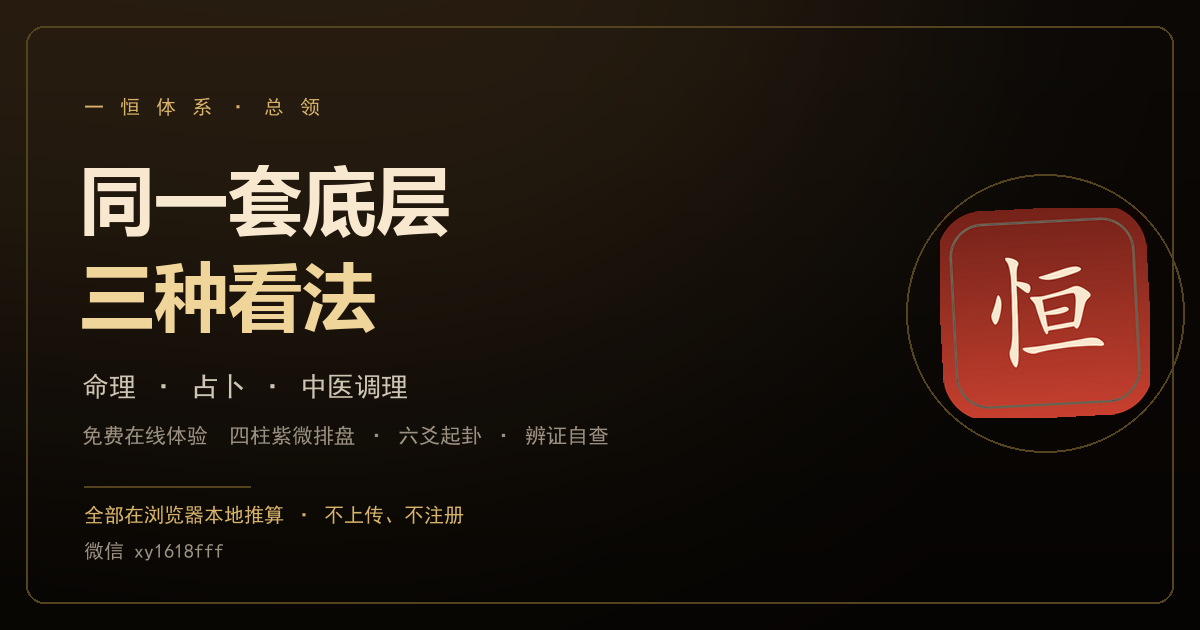
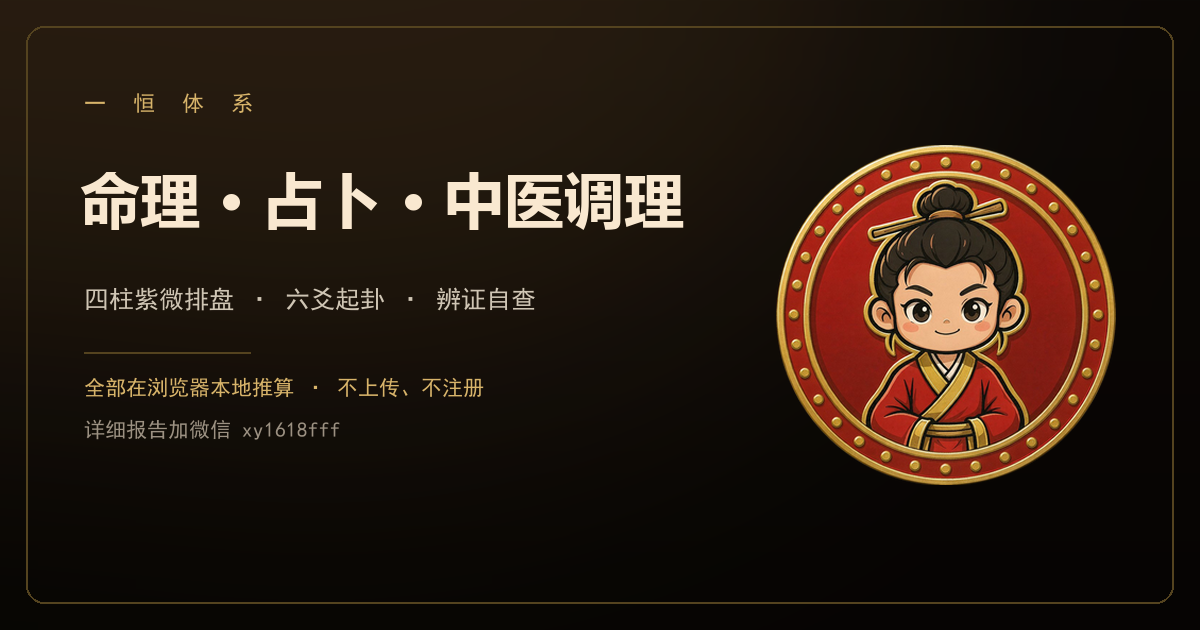
首页换成官方头像+三入口，删长介绍/FAQ/首页微信块；微信引导只留板块报告底部；修中医[object Object]

diff --git a/theme.css b/theme.css
@@ -45,12 +45,9 @@ h1,h2,h3,h4{margin:0;font-weight:700}
   backdrop-filter:blur(10px);
 }
 .brand{display:flex;align-items:center;gap:9px;color:var(--text);font-weight:600;font-size:14px;letter-spacing:2px}
-.seal{
-  width:26px;height:26px;flex:0 0 26px;border-radius:6px;
-  background:linear-gradient(160deg,#c8402f,#8e2a1f);color:#f8e6cd;
-  font-size:15px;line-height:26px;text-align:center;font-weight:700;letter-spacing:0;
-  box-shadow:inset 0 0 0 1px rgba(255,225,180,.35),0 2px 8px -4px #000;
-  transform:rotate(-3deg);
+.brand .av{
+  width:28px;height:28px;flex:0 0 28px;display:block;border-radius:50%;object-fit:cover;
+  box-shadow:0 0 0 1px rgba(216,180,106,.34),0 4px 10px -5px #000;
 }
 .navlinks{display:flex;gap:14px;font-size:12.5px;letter-spacing:.5px}
 .navlinks a{color:var(--dim)}
@@ -58,64 +55,46 @@ h1,h2,h3,h4{margin:0;font-weight:700}
 .navlinks a.on{position:relative}
 .navlinks a.on::after{content:"";position:absolute;left:0;right:0;bottom:-5px;height:1px;background:linear-gradient(90deg,transparent,var(--gold),transparent)}
 
-/* ---------- 首页 Hero ---------- */
-.hero{text-align:center;padding:26px 0 6px}
-.sealbig{
-  width:70px;height:70px;margin:0 auto 16px;border-radius:12px;
-  background:linear-gradient(160deg,#c8402f,#8a281d);
-  box-shadow:inset 0 0 0 1.5px rgba(255,226,180,.4),inset 0 0 22px rgba(0,0,0,.35),0 14px 30px -18px #000;
-  display:flex;align-items:center;justify-content:center;transform:rotate(-3deg);
+/* ---------- 首页 Hero：头像 + 字标（摆正，不做任何倾斜） ---------- */
+.home{display:flex;flex-direction:column;justify-content:center;min-height:calc(100vh - 120px)}
+@supports (min-height:100dvh){.home{min-height:calc(100dvh - 120px)}}
+.hero{text-align:center;padding:22px 0 0}
+.hero .avatar{
+  display:block;width:118px;height:118px;margin:0 auto;border-radius:50%;
+  box-shadow:0 0 0 1px rgba(216,180,106,.3),0 20px 44px -22px #000,0 0 64px -12px rgba(192,57,43,.4);
 }
-.sealbig span{font-size:38px;line-height:1;color:#f9e8d0;font-weight:700;font-family:"STKaiti","KaiTi",serif}
+.hero .name{
+  margin:18px 0 0;font-size:14.5px;font-weight:600;line-height:1.2;
+  letter-spacing:.46em;text-indent:.46em;color:var(--gold2);
+}
 .kicker{font-size:11.5px;letter-spacing:5px;color:var(--gold);text-transform:uppercase}
-.hero h1{font-size:clamp(27px,7.4vw,40px);letter-spacing:.06em;line-height:1.32;margin:12px 0 0}
-.hero h1 em{font-style:normal;color:var(--gold2)}
-.lead{color:#cfc5b4;font-size:14.5px;margin:14px auto 0;max-width:560px;line-height:1.9}
-.lead2{color:var(--dim);font-size:13px;margin:8px auto 0;max-width:560px}
-.lead2 b{color:var(--gold);font-weight:500}
 
 /* ---------- 板块卡 ---------- */
-.boards{display:grid;grid-template-columns:1fr;gap:14px;margin:26px 0 8px}
-@media (min-width:720px){.boards{grid-template-columns:repeat(3,1fr);gap:12px}}
+.boards{display:grid;grid-template-columns:1fr;gap:12px;margin:30px 0 0}
+@media (min-width:720px){.boards{grid-template-columns:repeat(3,1fr);gap:14px}}
 .bcard{
-  position:relative;display:flex;flex-direction:column;gap:10px;
-  padding:20px 18px 18px;border-radius:20px;border:1px solid var(--line);
+  position:relative;display:flex;flex-direction:column;align-items:center;text-align:center;gap:8px;
+  padding:26px 16px 22px;border-radius:18px;border:1px solid var(--line);
   background:linear-gradient(168deg,#1b150e 0%,#13100b 62%,#100e0a 100%);
-  box-shadow:var(--sh);overflow:hidden;transition:transform .18s,border-color .18s;
+  box-shadow:var(--sh);overflow:hidden;
+  transition:transform .18s,border-color .18s,box-shadow .18s;
 }
 .bcard::before{
-  content:"";position:absolute;inset:0;border-radius:20px;pointer-events:none;
-  background:radial-gradient(240px 130px at 82% -10%,rgba(216,180,106,.16),transparent 70%);
+  content:"";position:absolute;inset:0;border-radius:18px;pointer-events:none;
+  background:radial-gradient(220px 120px at 82% -10%,rgba(216,180,106,.16),transparent 70%);
 }
-.bcard:hover{transform:translateY(-2px);border-color:var(--line2)}
+.bcard:hover{transform:translateY(-3px);border-color:var(--line2);box-shadow:0 16px 36px -20px #000}
 .bcard:active{transform:scale(.995)}
-.bcard .ic{width:44px;height:44px;color:var(--gold);opacity:.95}
-.bcard h3{font-size:18.5px;letter-spacing:.04em;color:var(--text)}
-.bcard h3 small{display:block;font-size:11.5px;letter-spacing:2.5px;color:var(--dim);font-weight:400;margin-top:4px}
-.bcard p{margin:0;color:var(--dim);font-size:13.2px;line-height:1.8;flex:1}
-.bcard .meta{font-size:11.5px;color:var(--dim2);letter-spacing:.4px}
+.bcard .ic{width:36px;height:36px;color:var(--gold);opacity:.92;margin-bottom:2px}
+.bcard h3{font-size:18.5px;letter-spacing:.14em;text-indent:.14em;color:var(--text)}
+.bcard p{margin:0;color:var(--dim);font-size:12.8px;line-height:1.7;letter-spacing:.04em}
 .bcard .go{
-  display:inline-flex;align-items:center;gap:6px;align-self:flex-start;
-  font-size:13.5px;font-weight:600;color:var(--gold2);
-  padding:7px 0 2px;border-top:1px solid var(--line);width:100%;margin-top:4px;
+  display:inline-flex;align-items:center;gap:6px;margin-top:8px;
+  font-size:11.5px;letter-spacing:.2em;text-indent:.2em;color:var(--gold);opacity:.78;
 }
+.bcard:hover .go{opacity:1}
 .bcard .go .arw{transition:transform .18s}
-.bcard:hover .go .arw{transform:translateX(4px)}
-
-/* ---------- 分节 ---------- */
-.sect{margin:38px 0 0;padding-top:26px;border-top:1px solid var(--line)}
-.sect-h{display:flex;align-items:baseline;gap:10px;margin-bottom:6px}
-.sect-h .num{font-size:12px;color:var(--red);letter-spacing:2px;font-weight:600}
-.sect-h h2{font-size:19px;letter-spacing:.05em}
-.sect-h h2 small{font-size:12px;color:var(--dim);font-weight:400;letter-spacing:1px;margin-left:8px}
-.sect-p{color:var(--dim);font-size:13.2px;margin:6px 0 16px;line-height:1.85;max-width:640px}
-
-.sysgrid{display:grid;grid-template-columns:1fr;gap:10px}
-@media (min-width:640px){.sysgrid{grid-template-columns:repeat(3,1fr)}}
-.sys{padding:14px 15px;border-radius:14px;border:1px solid var(--line);background:rgba(18,16,12,.68)}
-.sys b{display:block;color:var(--gold2);font-size:14.5px;margin-bottom:4px;letter-spacing:.04em}
-.sys span{display:block;color:var(--dim);font-size:12.8px;line-height:1.82}
-.sys .k{font-size:11px;color:var(--red2);letter-spacing:2px;display:block;margin-bottom:6px}
+.bcard:hover .go .arw{transform:translateX(3px)}
 
 /* ---------- 微信门槛（共用） ---------- */
 .lock{
@@ -216,20 +195,15 @@ input:focus,select:focus,textarea:focus{border-color:var(--line2)}
 @media (min-width:1024px){
   .wrap{width:980px;max-width:calc(100% - 48px);padding:0 24px}
   .topnav{padding:14px 24px}
-  .hero{padding:40px 0 4px}
-  .hero h1{font-size:39px}
-  .lead{font-size:15.5px;max-width:640px}
-  .lead2{font-size:13.5px;max-width:640px}
-  .boards{margin-top:36px;gap:16px}
-  .bcard{padding:24px 22px 20px}
-  .bcard h3{font-size:19.5px}
-  .bcard p{font-size:13.6px}
-  .sect{margin-top:54px;padding-top:34px}
-  .sect-h h2{font-size:21px}
-  .sect-p{font-size:13.6px;max-width:720px}
-  .sys{padding:18px 17px}
+  .hero{padding:34px 0 0}
+  .hero .avatar{width:168px;height:168px}
+  .hero .name{font-size:16px;margin-top:24px}
+  .boards{margin-top:46px;gap:16px}
+  .bcard{padding:30px 22px 26px}
+  .bcard h3{font-size:20px}
+  .bcard p{font-size:13.2px}
   .lock{padding:24px 22px}
-  .foot{margin-top:52px}
+  .foot{margin-top:56px}
 }
 
 /* ---------- 微信块：宽屏左右两列，高度砍一半 ---------- */
@@ -242,20 +216,6 @@ input:focus,select:focus,textarea:focus{border-color:var(--line2)}
 @media (max-width:719px){
   .lk-wx{display:flex;flex-direction:column;align-items:center}
 }
-
-/* ---------- 信任标签 ---------- */
-.trust{display:flex;flex-wrap:wrap;gap:8px;justify-content:center;margin:14px auto 0}
-.trust span{font-size:11.5px;color:var(--gold);border:1px solid var(--line2);border-radius:999px;padding:3px 10px;background:rgba(30,23,16,.7)}
-
-/* ---------- 常见问题 ---------- */
-.faq{margin-top:6px;border-top:1px solid var(--line)}
-.faq details{border-bottom:1px solid var(--line);padding:13px 2px}
-.faq summary{cursor:pointer;font-size:14px;color:var(--text);list-style:none;display:flex;align-items:center;justify-content:space-between;gap:12px;letter-spacing:.02em}
-.faq summary::-webkit-details-marker{display:none}
-.faq summary::after{content:"+";color:var(--gold);font-size:16px;line-height:1}
-.faq details[open] summary::after{content:"−"}
-.faq details[open] summary{color:var(--gold2)}
-.faq details p{margin:9px 0 0;color:var(--dim);font-size:13px;line-height:1.9;max-width:720px}
 
 /* ---------- 无障碍 ---------- */
 :where(a,button,input,select,textarea,[tabindex]):focus-visible{outline:2px solid var(--gold);outline-offset:2px;border-radius:8px}

diff --git a/app.js b/app.js
@@ -141,25 +141,11 @@
       '<line x1="16.7" y1="8" x2="16.7" y2="36"/><line x1="27.3" y1="8" x2="27.3" y2="36"/></svg>'
   };
 
+  /* 首页只有三个入口，卡片不放长介绍——点进去看盘面，详细报告在板块底部引导微信 */
   var CARDS = [
-    {
-      id: 'mingli', kicker: '结构 · 四柱与紫微',
-      title: '命理', sub: '你手里有什么牌',
-      p: '出生时间定四柱：日主、十神、六亲、财官，再加紫微十二宫与十二段大限，最后给一句简要结论。',
-      meta: '约 3 秒出盘 · 免费', cta: '进入排盘'
-    },
-    {
-      id: 'zhanbu', kicker: '当下 · 象数六爻',
-      title: '占卜', sub: '这一把该怎么出',
-      p: '心里默问一件事，三枚铜钱摇六次。盘面上是六亲、六神、世应、动变、伏神与旬空。',
-      meta: '两次点击 · 免费', cta: '起一卦'
-    },
-    {
-      id: 'zhongyi', kicker: '底子 · 中医调理',
-      title: '中医调理', sub: '身体接不接得住',
-      p: '勾选当下的身体感受：寒热、汗、二便、睡眠、舌象。看证候偏向，给调理思路。',
-      meta: '约 2 分钟 · 免费', cta: '开始自查'
-    }
+    { id: 'mingli', title: '命理', sub: '你手里有什么牌' },
+    { id: 'zhanbu', title: '占卜', sub: '这一把怎么出' },
+    { id: 'zhongyi', title: '中医调理', sub: '身体接不接得住' }
   ];
 
   /* ---------------- 首页 ---------------- */
@@ -167,65 +153,23 @@
     var cards = CARDS.map(function (c) {
       return '<a class="bcard" href="#/' + c.id + '">' +
         ICONS[c.id] +
-        '<h3>' + esc(c.title) + '<small>' + esc(c.kicker) + '</small></h3>' +
-        '<p>' + esc(c.p) + '</p>' +
-        '<div class="meta">' + esc(c.meta) + '</div>' +
-        '<div class="go">' + esc(c.cta) + '<span class="arw">→</span></div>' +
+        '<h3>' + esc(c.title) + '</h3>' +
+        '<p>' + esc(c.sub) + '</p>' +
+        '<span class="go">进入<span class="arw">→</span></span>' +
         '</a>';
     }).join('');
 
     return '' +
       '<div class="hero">' +
-        '<div class="sealbig" aria-hidden="true"><span>恒</span></div>' +
-        '<div class="kicker">一 恒 体 系 · 总 领</div>' +
-        '<h1>同一套底层<br><em>三种看法</em></h1>' +
-        '<p class="lead">命理看你手里有什么牌，占卜看这一把该怎么出，中医看你此刻的身体接不接得住。</p>' +
-        '<p class="lead2">三个入口，都从一次输入开始：出生时间、一件事、一组症状。<b>全部在浏览器本地推算，不上传。</b></p>' +
-        '<div class="trust"><span>本地推算</span><span>不上传</span><span>不用注册</span><span>免费体验</span></div>' +
+        '<img class="avatar" src="avatar-320.webp" alt="一恒体系" width="132" height="132" decoding="async" fetchpriority="high">' +
+        '<h1 class="name">一恒体系</h1>' +
       '</div>' +
 
       '<div class="boards">' + cards + '</div>' +
 
-      '<section class="sect">' +
-        '<div class="sect-h"><span class="num">01</span><h2>为什么是这三样<small>一条线，不是三个摊子</small></h2></div>' +
-        '<p class="sect-p">三者共用一套阴阳五行的语言，所以能对着看：命理说方向，占卜说时机，中医说到底子。</p>' +
-        '<div class="sysgrid">' +
-          '<div class="sys"><span class="k">结 构</span><b>命理 · 看牌面</b><span>日主是什么、六亲怎么排、财官有没有力、大运哪十年顺。看的是这一辈子大致拿了什么牌。</span></div>' +
-          '<div class="sys"><span class="k">当 下</span><b>占卜 · 看出牌</b><span>这一件事此刻的势：世应谁强、用神旺不旺、动爻往哪走、什么时候应。看的是这一把怎么出。</span></div>' +
-          '<div class="sys"><span class="k">底 子</span><b>中医 · 看身体</b><span>寒热虚实、脏腑气血、睡眠二便。牌再好、势再顺，底子接不住也白搭。看的是这个人现在的状态。</span></div>' +
-        '</div>' +
-      '</section>' +
-
-      '<section class="sect">' +
-        '<div class="sect-h"><span class="num">02</span><h2>先看盘面<small>完整报告加微信</small></h2></div>' +
-        '<p class="sect-p">免费体验出盘，盘面与一句简要结论直接看，不用注册、不留信息。需要结合你本人逐项推演的部分——四柱结构、断卦与时机、方药与剂量——不在页面上生成，加微信 ' + esc(WX.id) + ' 一对一给。</p>' +
-        '<div class="lock" style="margin-top:4px">' +
-          '<div class="lk-t">加微信 ' + esc(WX.id) + ' · 说清你要问哪个板块</div>' +
-          '<p class="lk-p">命理发出生时间，占卜发卦象或直接说事，中医说症状。盘面与简要结论页面上就有，不用等。</p>' +
-          '<div style="margin:10px 0 0">' +
-            '<span class="pill">命理 → 回复「报告」</span>' +
-            '<span class="pill">占卜 → 回复「占卦」</span>' +
-            '<span class="pill">中医 → 回复「调理」</span>' +
-          '</div>' +
-          wxBlock('报告') +
-        '</div>' +
-      '</section>' +
-
-      '<section class="sect">' +
-        '<div class="sect-h"><span class="num">03</span><h2>常见问题<small>先问清楚，再决定</small></h2></div>' +
-        '<div class="faq">' +
-          '<details><summary>盘面和判断准不准？</summary><p>排盘按固定历法与规则推算，同一时间输入永远出同一张盘；判断给的是倾向和概率，不是命令。它帮你看清结构，不替你做决定。</p></details>' +
-          '<details><summary>要收费吗？</summary><p>体验免费，出盘、起卦、自查都不收费，盘面与简要结论直接看。完整报告加微信 ' + esc(WX.id) + ' 单独说，按你的事一项一项讲清楚。</p></details>' +
-          '<details><summary>我的出生时间、症状会被收集吗？</summary><p>不会。所有推算在你自己的浏览器里完成，页面不往服务器发任何输入。只有你主动发到微信，我才看得到。</p></details>' +
-          '<details><summary>为什么这三样要一起看？</summary><p>命理看你这辈子大致拿了什么牌，占卜看这一把该怎么出，中医看你现在的身体接不接得住。三者共用一套阴阳五行的语言，能对着看。</p></details>' +
-          '<details><summary>中医内容能替代看医生吗？</summary><p>不能。本站只做辨证自查和调理思路，急症、持续加重、正在服药的，先去医院面诊。</p></details>' +
-        '</div>' +
-      '</section>' +
-
       '<footer class="foot">' +
         '一恒体系 · 命理 / 占卜 / 中医调理 © 2026<br>' +
-        '所有排盘与判断均在浏览器本地完成，不收集、不上传你的输入。' +
-        '<br>命理与占卜为传统文化体验，请勿作为重大决策的唯一依据；中医内容仅供健康参考，不替代面诊与治疗。' +
+        '所有推算都在你的浏览器里完成，不收集、不上传 · 命理占卜为传统文化体验，中医内容仅供健康参考，不替代面诊。' +
       '</footer>';
   }
 
@@ -358,7 +302,7 @@
     var md = document.querySelector('meta[name="description"]');
     if (md) md.setAttribute('content', id ? META[id] : HOME_DESC);
     if (!id) {
-      $view.innerHTML = '<div class="page">' + homeHTML() + '</div>';
+      $view.innerHTML = '<div class="page home">' + homeHTML() + '</div>';
       idlePrefetch();
       return;
     }

diff --git a/zhongyi.js b/zhongyi.js
@@ -14,7 +14,10 @@
   var ORDER = {};
   SYMPTOMS.forEach(function (s, i) { BY_ID[s.id] = s; ORDER[s.id] = i; });
 
-  var WX_ID = (root.YH && (root.YH.wx || root.YH.WX)) || 'xy1618fff';
+  /* 注意：app.js 里 YH.WX 是对象（{id,qr,keywords}），必须取 .id，
+     否则会渲染成「加微信 [object Object]」（2026-11-01 修）。 */
+  var _yh = root.YH || {};
+  var WX_ID = (typeof _yh.wx === 'string' && _yh.wx) || (_yh.WX && _yh.WX.id) || 'xy1618fff';
   var REP_FOOT = '本页依据症状倾向生成，仅供健康参考，不替代面诊与诊断；具体方药与剂量须由执业医师面诊后决定。';
 
   /* ---------------- 基础工具 ---------------- */

diff --git a/index.html b/index.html
@@ -39,7 +39,7 @@
 <a class="skip" href="#view" id="skipLink">跳到主内容</a>
 
 <nav class="topnav">
-  <a class="brand" href="#/"><span class="seal">恒</span><span>一恒体系</span></a>
+  <a class="brand" href="#/"><img class="av" src="avatar-320.webp" alt="" width="28" height="28" decoding="async"><span>一恒体系</span></a>
   <div class="navlinks">
     <a href="#/mingli" data-r="mingli">命理</a>
     <a href="#/zhanbu" data-r="zhanbu">占卜</a>

diff --git a/tools/verify-site.py b/tools/verify-site.py
@@ -40,6 +40,8 @@ ASSETS = [
     ("data.js", "javascript"),
     ("report.js", "javascript"),
     ("qr.png", "image"),
+    ("avatar-320.webp", "webp"),
+    ("avatar-320.png", "image"),
     ("favicon.png", "image"),
     ("apple-touch-icon.png", "image"),
     ("icon-192.png", "image"),
@@ -79,6 +81,8 @@ def ctype_ok(kind, ct):
     ct = (ct or "").lower()
     if kind == "image":
         return "image" in ct
+    if kind == "webp":
+        return "webp" in ct or "octet-stream" in ct
     if kind == "javascript":
         return "javascript" in ct or "text/plain" in ct
     if kind == "manifest":
@@ -148,6 +152,19 @@ def local_checks():
     check("app.js 有微信联系卡", "YH.contact" in app)
     check("页面上不生成完整内容", "YH.gate" not in app and "CODE_HASH" not in app)
     check("LICENSE 声明著作权", "保留所有权利" in files.get("LICENSE", b"").decode("utf-8", "ignore"))
+
+    # 首页形态（2026-11-01 用户定：上面换成头像、去掉大段介绍与 FAQ，微信引导只放在板块报告底部）
+    css = files.get("theme.css", b"").decode("utf-8", "ignore")
+    check("导航用官方头像", "avatar-320.webp" in html and 'class="av"' in html)
+    check("首页头像用官方头像", 'class="avatar"' in app and "avatar-320.webp" in app)
+    check("头像摆正不倾斜", "rotate(-3deg)" not in css and "rotate(-3deg)" not in app)
+    check("首页只留三个入口（无长介绍/FAQ/微信块）",
+          '"sect"' not in app and '"faq"' not in app and '"trust"' not in app
+          and '"lead"' not in app and '"sealbig"' not in app)
+    for name, kw in (("mingli.js", "报告"), ("zhanbu.js", "占卦"), ("zhongyi.js", "调理")):
+        src = files.get(name, b"").decode("utf-8", "ignore")
+        check(name + " 报告底部引导微信（回复「%s」）" % kw,
+              "wxKeyword" in src and kw in src)
 
     # manifest（PWA）
     try:
@@ -245,6 +262,8 @@ def live_checks(base):
         check("线上 app.js 含微信联系卡", "YH.contact" in js_app)
         check("线上页不生成完整内容", "YH.gate" not in js_app)
         check("线上 app.js 含微信号", WECHAT in js_app)
+        check("线上首页头像用官方头像", "avatar-320.webp" in js_app and "avatar-320.webp" in text)
+        check("线上首页无长介绍/FAQ", '"sect"' not in js_app and '"faq"' not in js_app)
         for name, marker in (("mingli.js", "boards.mingli"), ("zhanbu.js", "boards.zhanbu"),
                              ("zhongyi.js", "boards.zhongyi")):
             src = fetch(base + name, UA_WECHAT)[2].decode("utf-8", "ignore")

diff --git a/README.md b/README.md
@@ -26,6 +26,9 @@
 | `index.html` | 壳：顶栏、挂载点、脚本顺序（板块模块在前，`app.js` 最后） |
 | `theme.css` | 玄金主题 tokens + 总领首页 + 通用组件 |
 | `app.js` | hash 路由、总领首页、`YH` 工具（esc / h2 / toast / copy / contact） |
+| `avatar-320.webp` | 首页/顶栏头像：官方红金圆环头像切圆、透明底、摆正（页面实载，33KB） |
+| `avatar-320.png` | 同上 PNG 母版（出分享图 / 兜底用） |
+| `og.png` | 分享大图 1200×630（右侧头像 + 板块名） |
 | `mingli.js` `mingli.css` | 命理板 |
 | `zhanbu.js` `zhanbu-data.js` `zhanbu.css` | 占卜板（排盘引擎：起卦 → 装卦 → 四柱旬空） |
 | `zhongyi.js` `zhongyi-data.js` `zhongyi.css` | 中医板（症状指纹 → 证型权重 → 调护方向） |
@@ -33,6 +36,13 @@
 | `qr.png` | 一恒微信个人二维码 |
 | `LICENSE` | 自定义授权：著作权所有，禁止商用、抓取、二次分发 |
 | `tools/verify-site.py` | 上线自检（本地文件 + 线上资源 + 三板块注册 + 明文检查） |
+
+## 首页形态（2026-11-01 用户定）
+
+- 顶部只放**官方头像 + 一恒体系字标**，不做印章、不做倾斜（头像摆正）。
+- 不放大段介绍、不放开场文案、不放「本地推算/不上传」标签条、不放常见问题。
+- 只留三个入口卡：图标 + 板块名 + 一句话。
+- **微信引导只在各板块的详细报告底部出现**（命理摘要下 / 起卦后卦盘下 / 辨证结果下）。
 
 ## 口径与边界
 
@@ -49,6 +59,10 @@ python -m http.server 8850            # 打开 http://127.0.0.1:8850/
 python tools\verify-site.py --local   # 本地自检
 python tools\verify-site.py           # 线上自检（发布后跑）
 python D:\dsh\scripts\check-public-content.py   # 发布前：公开内容红线扫描（仓外脚本）
+
+# 换头像 / 重出分享图（源图在 D:\一恒个人事业\30_品牌视觉\品牌标识\头像-官方-红金圆环.jpg）
+python ..\tools\make-avatar.py              # 头像切圆 → avatar-320.png + webp
+python ..\tools\make-social-assets.py og    # 分享图（用新头像）
 ```
 
 发布：`docs\duowei\tools\deploy.ps1` —— 本地自检 → commit → push（带重试）→ 回读远端确认
